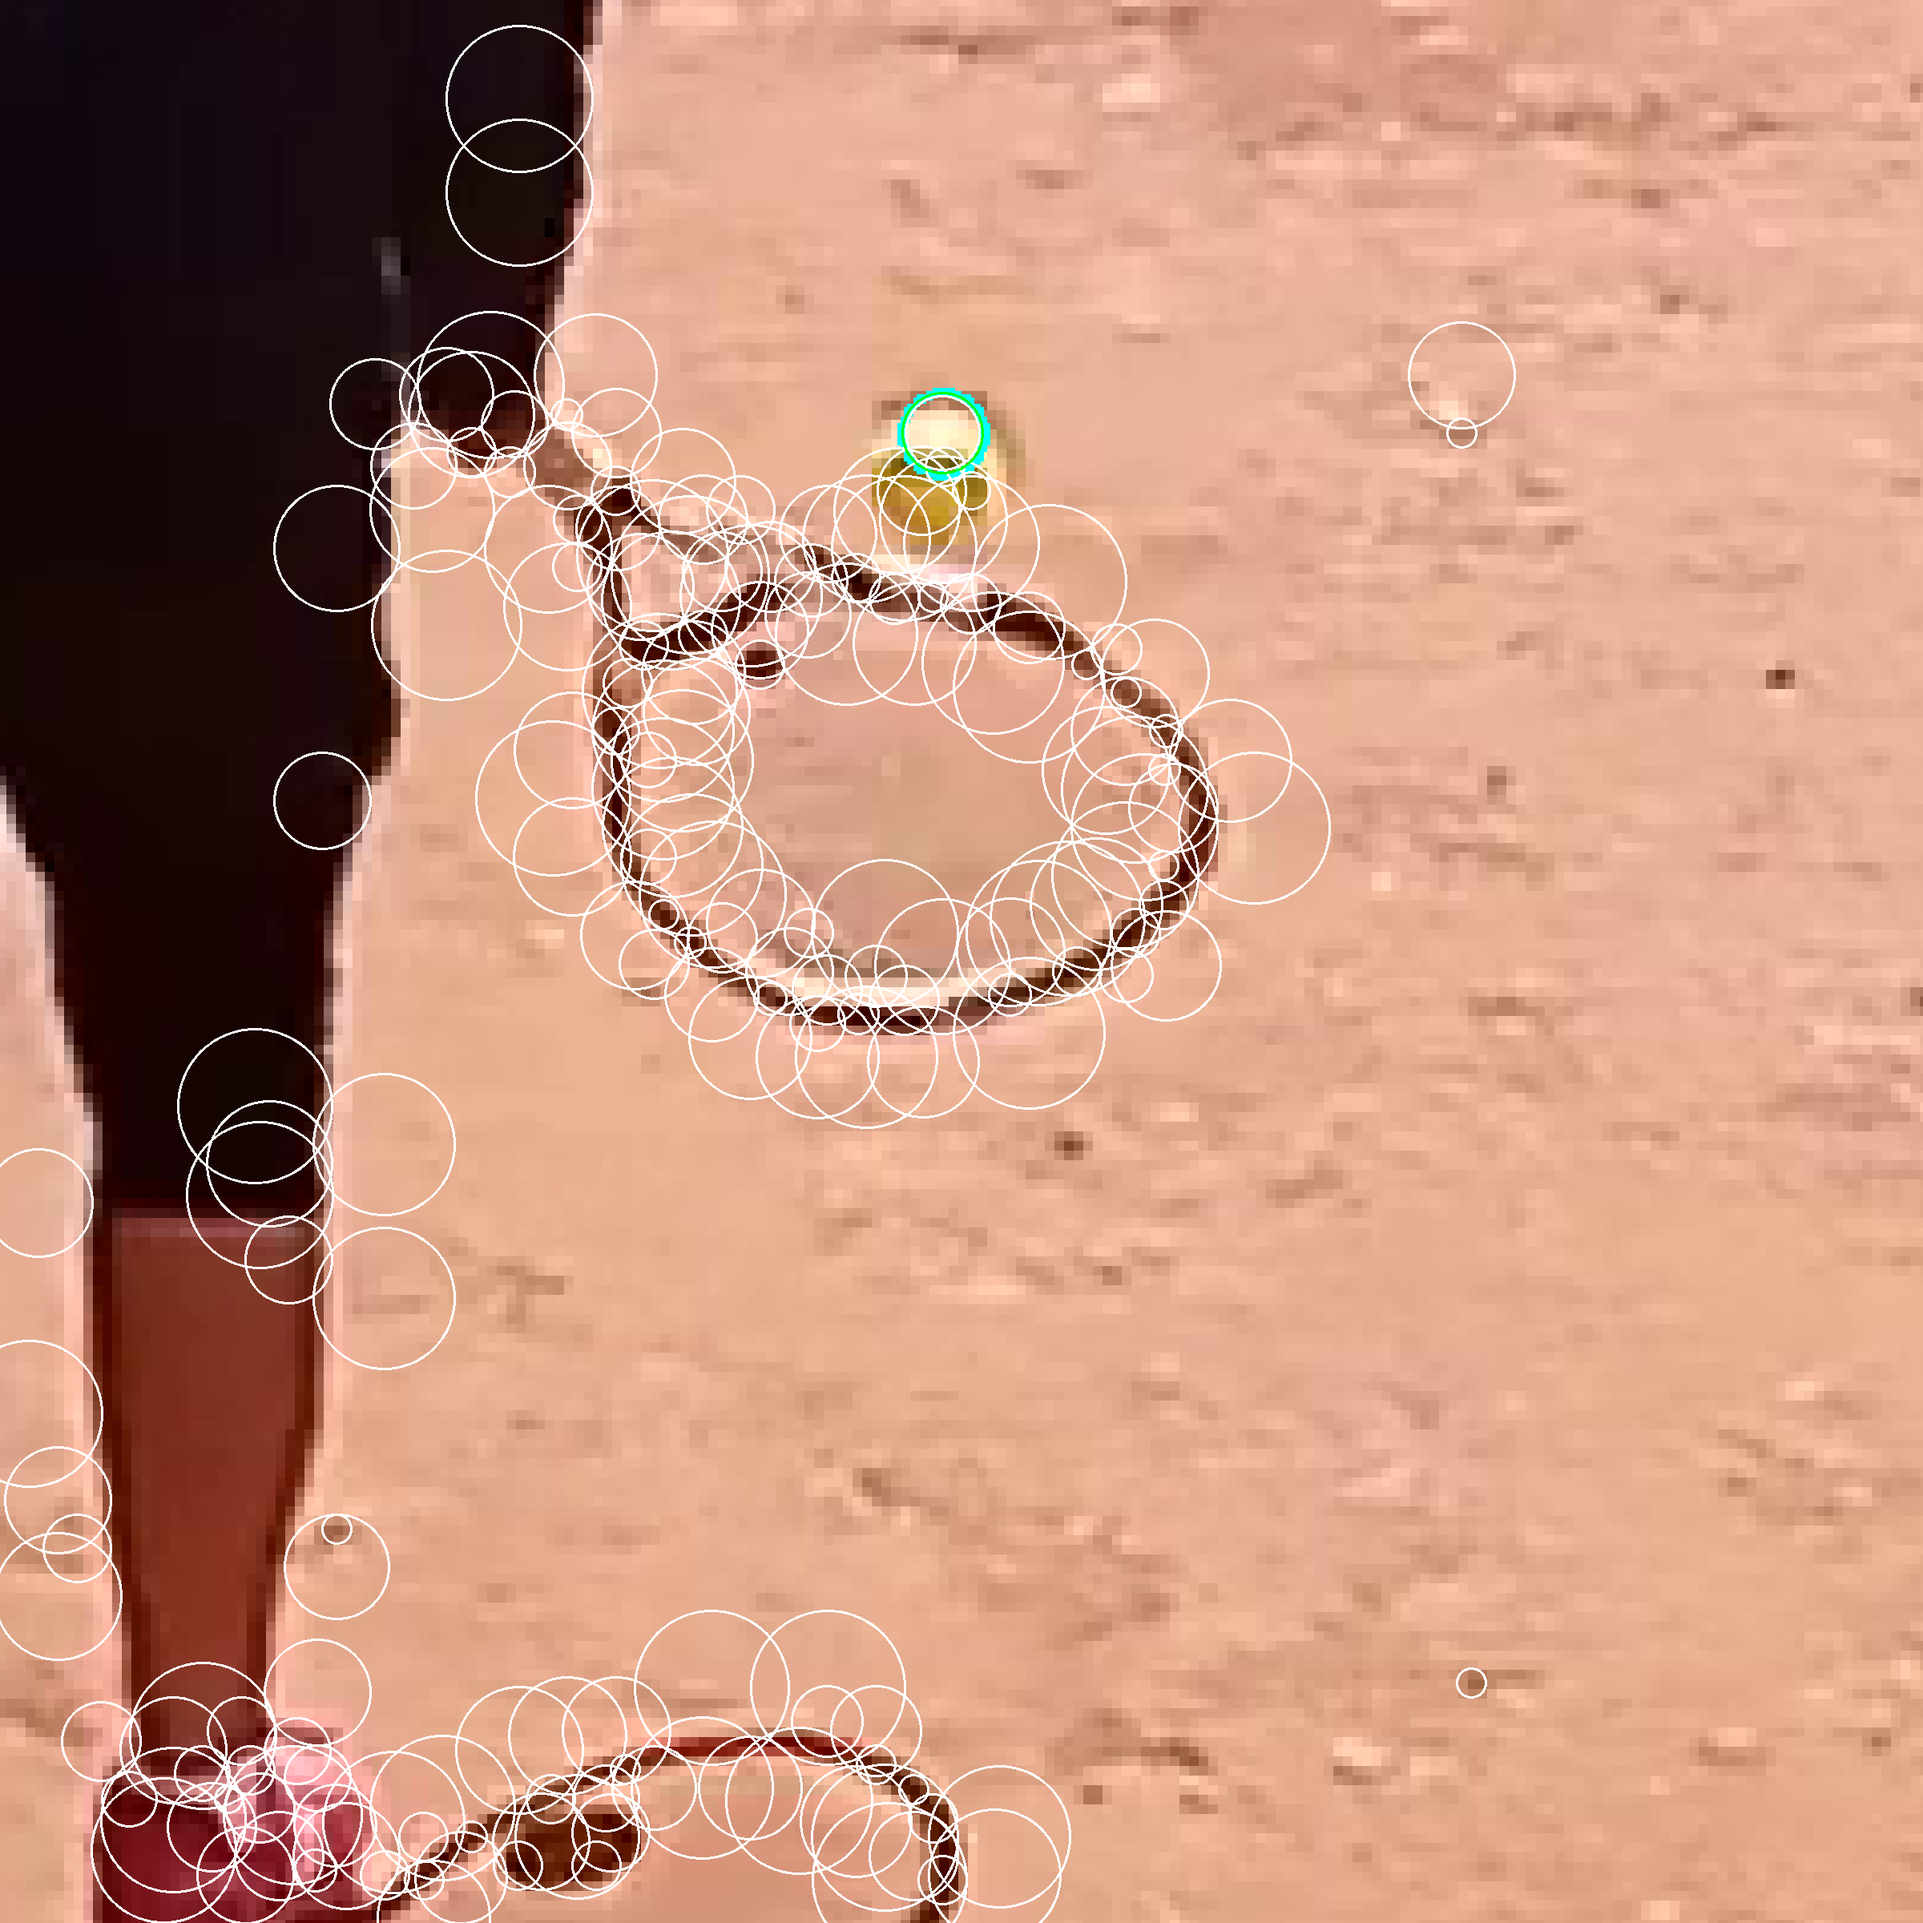
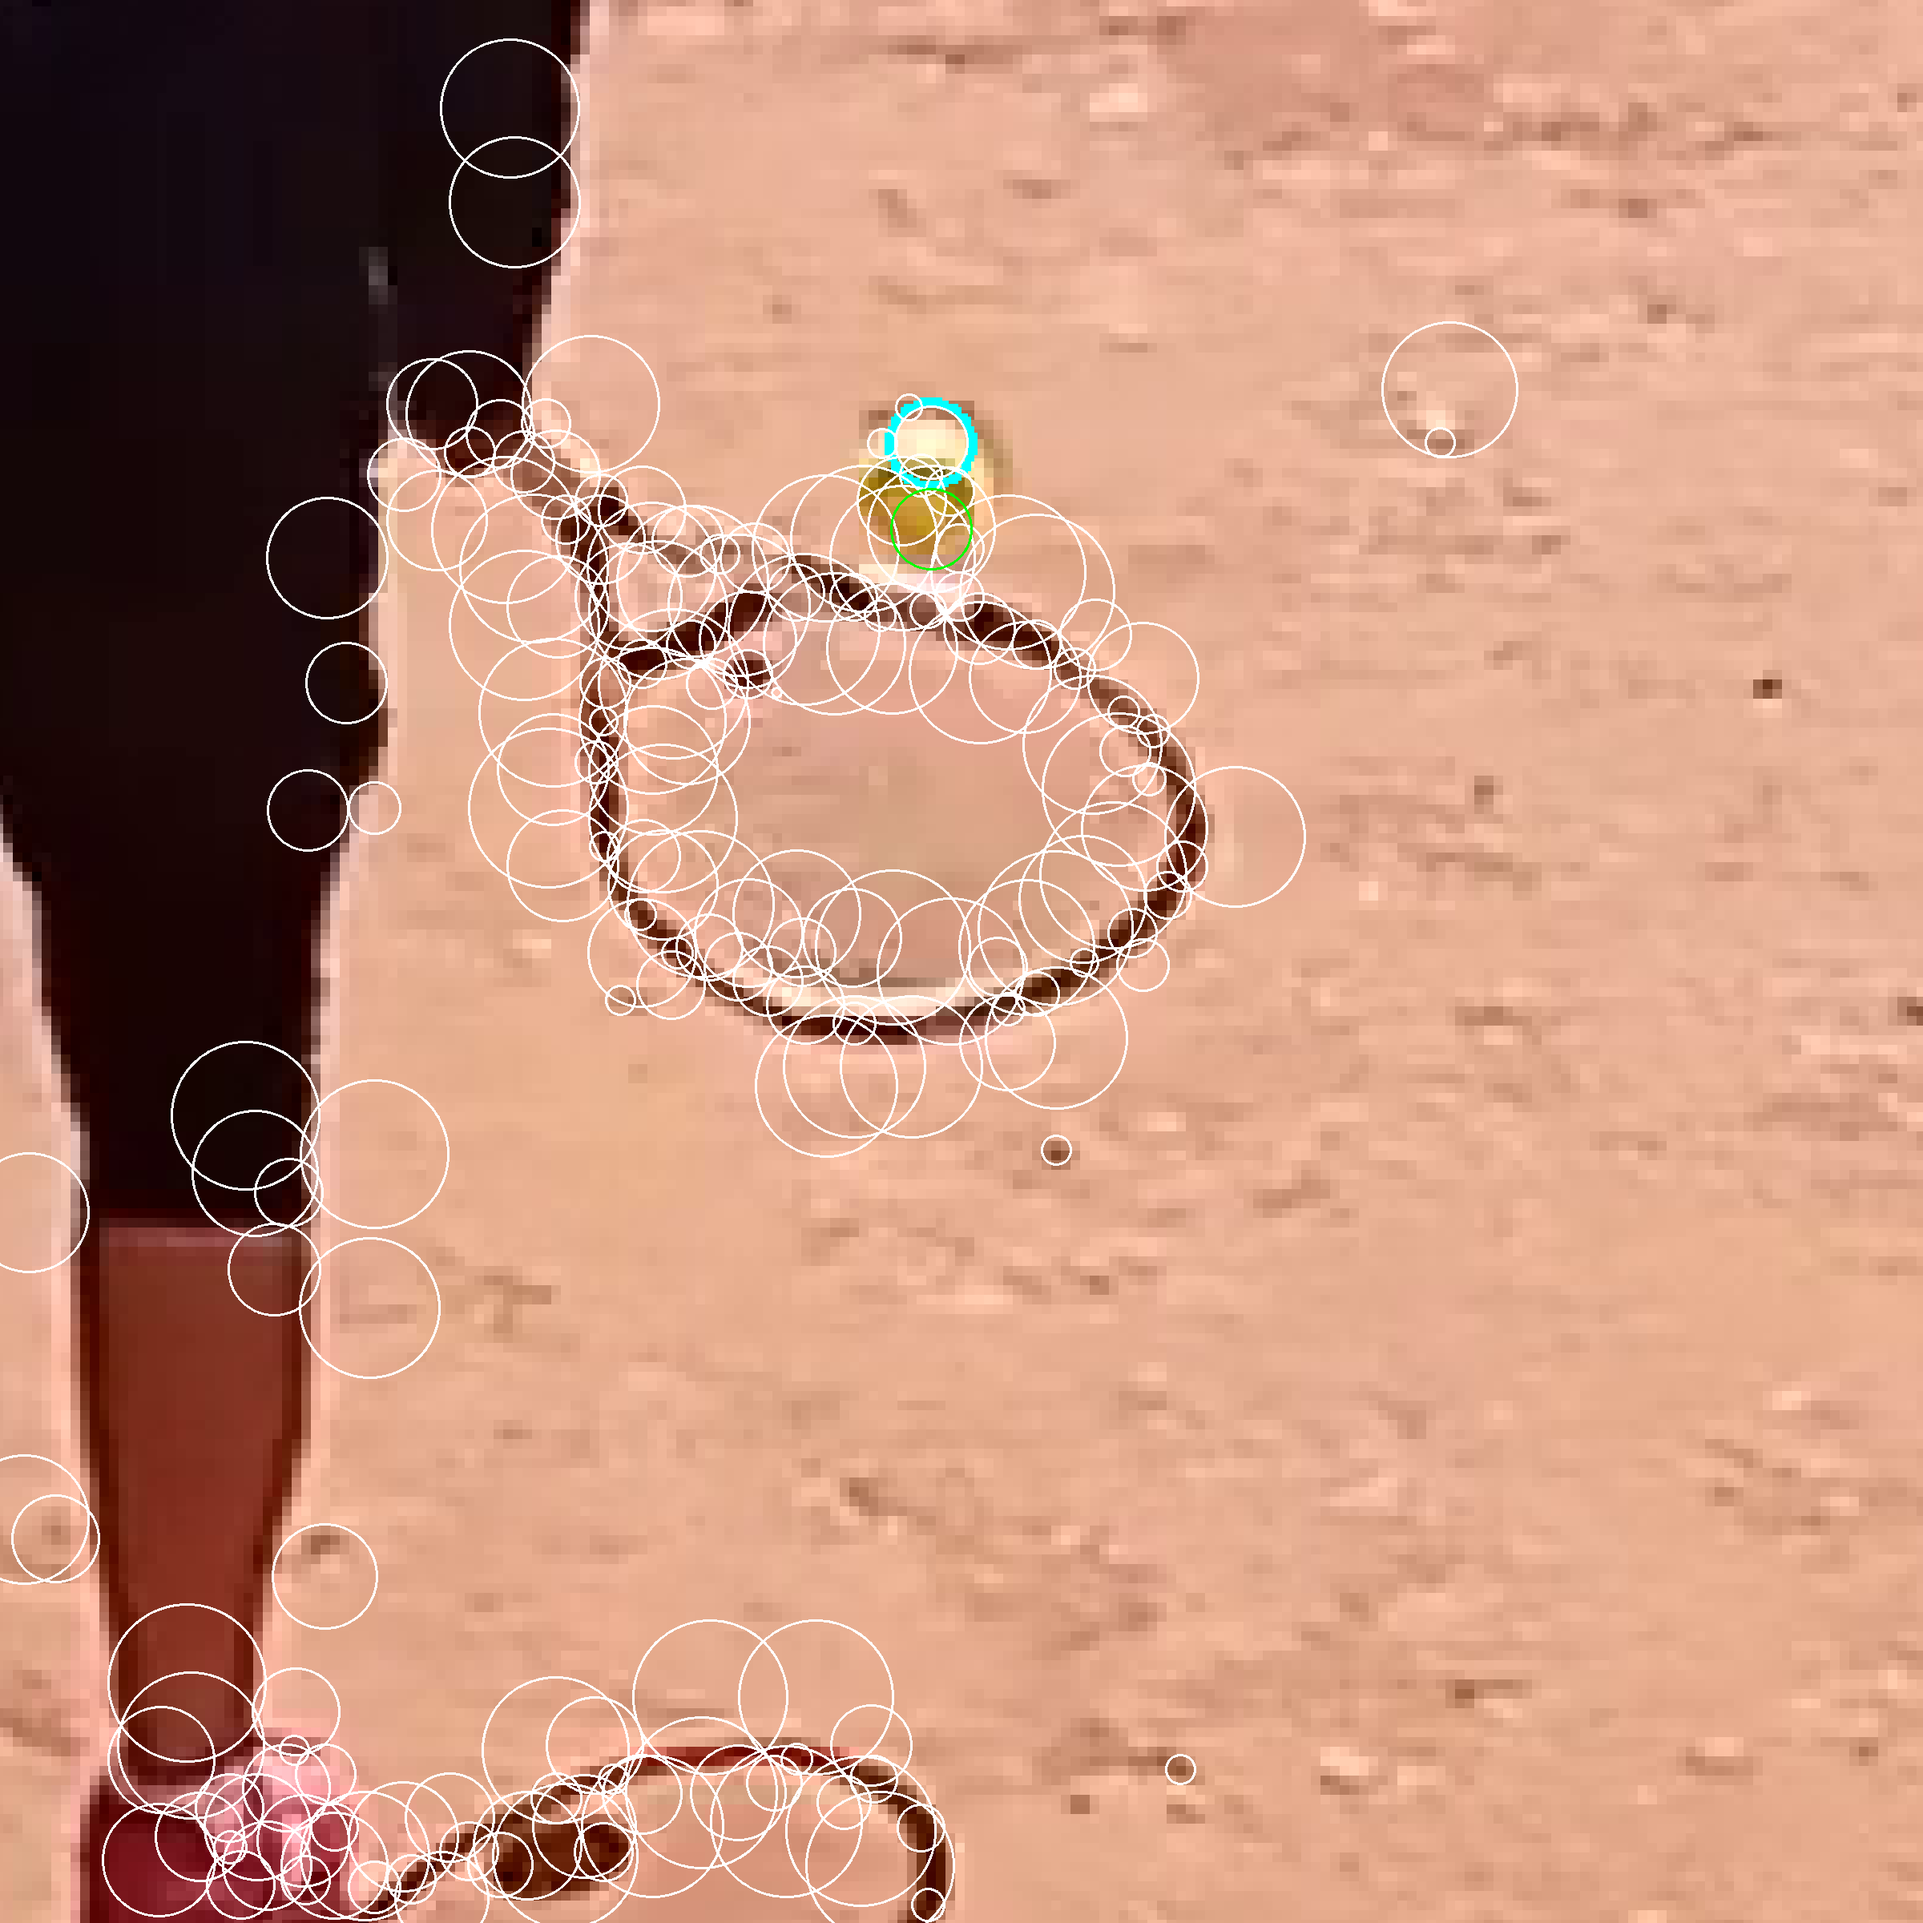
Continued

diff --git a/AI/ball_tracking3.py b/AI/ball_tracking3.py
@@ -1535,7 +1535,10 @@ def cambiosDeDireccion(ultCentros, correccion):
         #print("Deteccion Color Ultimos Frames", list(deteccionColorUltimosFrames)[-7:])
         for i in ultCentros:
             verdeCerca = None
-            if i[1] == True: circulosCorreccion.append((i[0], None))
+            if i[1] == True:
+                if len(circulosCorreccion) != 0: preCentroCorreccion2 = circulosCorreccion[-1][0] 
+                else: preCentroCorreccion2 = i[4]
+                circulosCorreccion.append((i[0], True, i[2], i[3], preCentroCorreccion2))
             else:
                 if len(circulosCorreccion) == 0 and i[4] is not None: preCentroCorreccion = i[4]
                 elif len(circulosCorreccion) != 0: preCentroCorreccion = circulosCorreccion[-1][0]
@@ -1546,18 +1549,57 @@ def cambiosDeDireccion(ultCentros, correccion):
                     correccionCirculos, coseno, casi_color_preCentro = deteccionPorCirculos(preCentroCorreccion, i[2], 300, True, color_preCentro, 4)
                     if coseno > ultimosSimilitudesCoseno[contador]:
                         #print("AAAAAAAAAAAAAAAAAAA")
-                        circulosCorreccion.append((correccionCirculos, None))
+                        if len(circulosCorreccion) != 0: preCentroCorreccion2 = circulosCorreccion[-1][0] 
+                        else: preCentroCorreccion2 = i[4]
+                        circulosCorreccion.append((correccionCirculos, False, i[2], casi_color_preCentro, preCentroCorreccion2))
                         color_preCentro = casi_color_preCentro
                     else:
                         #print("BBBBBBBBBBBBBBBBBB", correccionCirculos)
-                        circulosCorreccion.append((i[0], None))
+                        if len(circulosCorreccion) != 0: preCentroCorreccion2 = circulosCorreccion[-1][0] 
+                        else: preCentroCorreccion2 = i[4]
+                        circulosCorreccion.append((i[0], False, i[2], i[3], preCentroCorreccion2))
                         color_preCentro = i[3]
                     #circulosCorreccion.append(deteccionPorCirculos(i[4], i[2], 300, True, i[3], 4))
-                else: circulosCorreccion.append((verdeCerca, None))
+                else:
+                    pixeles = []
+                    pixeles_colores = []
+
+                    if verdeCerca[0][0] < i[2].shape[1] and verdeCerca[0][1] < i[2].shape[0]: pixeles.append((verdeCerca[0][0], verdeCerca[0][1]))
+
+                    for i in range(1, verdeCerca[1] + 1):
+                        if verdeCerca[0][0] + i < i[2].shape[1] and verdeCerca[0][1] < i[2].shape[0]: pixeles.append((verdeCerca[0][0] + i, verdeCerca[0][1]))
+                        if verdeCerca[0][0] - i < i[2].shape[1] and verdeCerca[0][1] < i[2].shape[0]: pixeles.append((verdeCerca[0][0] - i, verdeCerca[0][1]))
+
+                    for i in range(1, verdeCerca[1] + 1):
+                        if verdeCerca[0][0] < i[2].shape[1] and verdeCerca[0][1] + i < i[2].shape[0]: pixeles.append((verdeCerca[0][0], verdeCerca[0][1] + i))
+                        if verdeCerca[0][0] < i[2].shape[1] and verdeCerca[0][1] - i < i[2].shape[0]: pixeles.append((verdeCerca[0][0], verdeCerca[0][1] - i))
+
+                    for i in range(1, verdeCerca[1] + 1):
+                        for h in range(1, verdeCerca[1] + 1):
+                            if math.sqrt(h **2 + i **2) <= verdeCerca[1]:
+                                if verdeCerca[0][0] + h < i[2].shape[1] and verdeCerca[0][1] + i < i[2].shape[0]: pixeles.append((verdeCerca[0][0] + h, verdeCerca[0][1] + i))
+                                if verdeCerca[0][0] - h < i[2].shape[1] and verdeCerca[0][1] + i < i[2].shape[0]: pixeles.append((verdeCerca[0][0] - h, verdeCerca[0][1] + i))
+                                if verdeCerca[0][0] + h < i[2].shape[1] and verdeCerca[0][1] - i < i[2].shape[0]: pixeles.append((verdeCerca[0][0] + h, verdeCerca[0][1] - i))
+                                if verdeCerca[0][0] - h < i[2].shape[1] and verdeCerca[0][1] - i < i[2].shape[0]: pixeles.append((verdeCerca[0][0] - h, verdeCerca[0][1] - i))
+                            else: break
+                
+                    for pixel in pixeles:
+                        color = i[2][pixel[1], pixel[0]]
+                        pixeles_colores.append(color)
+
+                    # Calcula el promedio de cada posición utilizando comprensiones de listas
+                    promedio_primer_valor = sum(sublista[0] for sublista in pixeles_colores) / len(pixeles_colores)
+                    promedio_segundo_valor = sum(sublista[1] for sublista in pixeles_colores) / len(pixeles_colores)
+                    promedio_tercer_valor = sum(sublista[2] for sublista in pixeles_colores) / len(pixeles_colores)
+
+                    color_preCentro = (int(promedio_primer_valor), int(promedio_segundo_valor), int(promedio_tercer_valor))
+                    if len(circulosCorreccion) != 0: preCentroCorreccion2 = circulosCorreccion[-1][0] 
+                    else: preCentroCorreccion2 = i[4]
+                    circulosCorreccion.append((verdeCerca, True, i[2], color_preCentro, preCentroCorreccion2))
             
             contador += 1
     
-        print("Circulos Correccion", circulosCorreccion)
+        #print("Circulos Correccion", circulosCorreccion)
         print("Cambios de Direccion Correccion", cambiosDeDireccion(circulosCorreccion, True))
     
         if cambiosDeDireccion(circulosCorreccion, True) >= 3:
@@ -1570,6 +1612,14 @@ def cambiosDeDireccion(ultCentros, correccion):
             ((x, y), radio) = circulosCorreccion[-1][0]
             preCentro = ((int(x), int(y)), int(radio))
             color_pre_centro = color_preCentro
+            contador = 0
+            for i in range(-7, 0):
+                ultimosCentrosGlobales[i] = circulosCorreccion[contador]
+                contador += 1
+        
+        #print("Ultimos Centros Globales", ultimosCentrosGlobales)
+
+        #if centro is not None: ultimosCentrosGlobales.append((centroConDecimales, deteccionPorColor, frameCopia, color_pre_centro, preCentro))
 
     print("Cambios de Dirección", cambios_de_direccion)
     return cambios_de_direccion
